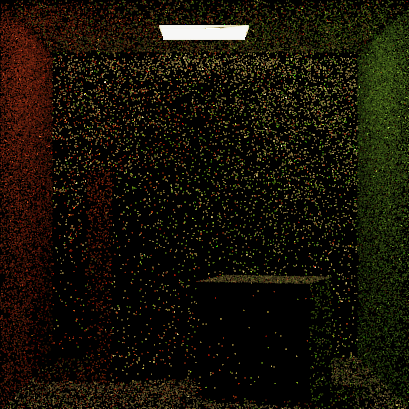
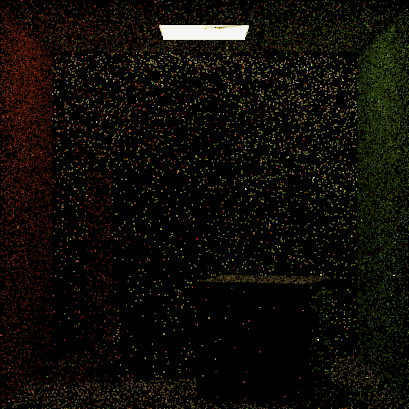
upload

diff --git a/RTBase/Materials.h b/RTBase/Materials.h
@@ -44,7 +44,6 @@ public:
 		float p = (cosTheta - cosTheta_t * ior) / (cosTheta + cosTheta_t * ior);
 		float v = (cosTheta * ior - cosTheta_t) / (cosTheta * ior + cosTheta_t);
 		return (SQ(p) + SQ(v)) / 2;
-		//return 1.0f;
 	}
 	static Colour fresnelConductor(float cosTheta, Colour ior, Colour k)
 	{
@@ -387,7 +386,6 @@ public:
 		std::cout << "ConductorBSDF" << std::endl;
 	}
 };
-#if 1
 class GlassBSDF : public BSDF
 {
 public:
@@ -523,143 +521,6 @@ public:
 		std::cout << "GlassBSDF" << std::endl;
 	}
 };
-#else
-class GlassBSDF : public BSDF
-{
-public:
-	Texture* albedo;
-	float intIOR;
-	float extIOR;
-	GlassBSDF() = default;
-	GlassBSDF(Texture* _albedo, float _intIOR, float _extIOR)
-	{
-		albedo = _albedo;
-		intIOR = _intIOR;
-		extIOR = _extIOR;
-	}
-	Vec3 sample(const ShadingData& shadingData, Sampler* sampler, Colour& reflectedColour, float& pdf)
-	{
-		// Replace this with Glass sampling code
-		/*Vec3 wi = SamplingDistributions::cosineSampleHemisphere(sampler->next(), sampler->next());
-		pdf = wi.z / M_PI;
-		reflectedColour = albedo->sample(shadingData.tu, shadingData.tv) / M_PI;
-		wi = shadingData.frame.toWorld(wi);
-		return wi;*/
-		//in Glass, we have certain direction of light.
-		Vec3 woLocal = shadingData.frame.toLocal(shadingData.wo);
-		if (woLocal.isZero()) { pdf = 0.0f; return Vec3(0.0f); }
-
-		// whether it is entering or exiting
-		float eta_i = woLocal.z > 0.0f ? extIOR : intIOR;
-		float eta_t = woLocal.z > 0.0f ? intIOR : extIOR;
-		float cosThetaI = fabsf(woLocal.z);
-
-		// Fresnel reflectance for dielectric
-		float F = ShadingHelper::fresnelDielectric(cosThetaI, eta_i, eta_t);
-
-		// sample decision
-		float u = sampler->next();
-
-		// reflection, samilar to mirror
-		if (u < F){
-			Vec3 wiLocal(-woLocal.x, -woLocal.y, woLocal.z); // perfect mirror
-			Vec3 wi = shadingData.frame.toWorld(wiLocal);
-			float cosThetaR = fabsf(woLocal.z);
-			if (cosThetaR < EPSILON) cosThetaR = EPSILON;
-			reflectedColour = albedo->sample(shadingData.tu, shadingData.tv) * (F / cosThetaR);
-			return wi;
-		}
-		// transmission
-		else{
-			Vec3 N(0.0f, 0.0f, 1.0f);
-			Vec3 I = -woLocal;
-			float eta = eta_i / eta_t;
-			float NdotI = Dot(N, I); //NdotI = -woLocal.z
-			float k = 1.0f - SQ(eta) * (1.0f - SQ(NdotI));
-			Vec3 T = I * eta  - N * (eta * NdotI + sqrtf(k));
-			Vec3 wiLocal = T; // already points into transmitted medium
-			Vec3 wi = shadingData.frame.toWorld(wiLocal);
-
-			float cosThetaT = fabsf(wiLocal.z);
-			if (cosThetaT < EPSILON) cosThetaT = EPSILON;
-
-			// scale factor from rendering equation for transmission delta term:
-			float etaScale = SQ(eta_t) / SQ(eta_i);
-			reflectedColour = albedo->sample(shadingData.tu, shadingData.tv) * (etaScale * (1.0f - F) / cosThetaT);
-			return wi;
-		}
-	}
-	Colour evaluate(const ShadingData& shadingData, const Vec3& wi)
-	{
-		// Replace this with Glass evaluation code
-		//return albedo->sample(shadingData.tu, shadingData.tv) / M_PI;
-		Vec3 woLocal = shadingData.frame.toLocal(shadingData.wo);
-		Vec3 wiLocal = shadingData.frame.toLocal(wi);
-
-		if (woLocal.isZero() || wiLocal.isZero()) return Colour(0.0f);
-
-		// reject below-surface directions (convention used elsewhere)
-		if (woLocal.z == 0.0f) return Colour(0.0f);
-
-		// prepare Fresnel and ior
-		float eta_i = woLocal.z > 0.0f ? extIOR : intIOR;
-		float eta_t = woLocal.z > 0.0f ? intIOR : extIOR;
-		float cosThetaI = fabsf(woLocal.z);
-		float F = ShadingHelper::fresnelDielectric(cosThetaI, eta_i, eta_t);
-
-		// expected reflection
-		Vec3 wiRef(-woLocal.x, -woLocal.y, woLocal.z);
-		if (fabsf(wiLocal.x - wiRef.x) < EPSILON &&
-			fabsf(wiLocal.y - wiRef.y) < EPSILON &&
-			fabsf(wiLocal.z - wiRef.z) < EPSILON){//first part of the function
-			float cosThetaR = fabsf(woLocal.z);
-			if (cosThetaR < EPSILON) cosThetaR = EPSILON;
-			return albedo->sample(shadingData.tu, shadingData.tv) * (F / cosThetaR);
-		}
-		// expected transmission: compute refracted direction and compare
-		else{//second part of the function
-			Vec3 N(0.0f, 0.0f, 1.0f);
-			Vec3 I = -woLocal;
-			float eta = eta_i / eta_t;
-			float NdotI = Dot(N, I);
-			float k = 1.0f - SQ(eta) * (1.0f - SQ(NdotI));
-			Vec3 T = I * eta - N * (eta * NdotI + sqrtf(k));
-			// compare T with wiLocal
-			if (fabsf(wiLocal.x - T.x) < EPSILON &&
-				fabsf(wiLocal.y - T.y) < EPSILON &&
-				fabsf(wiLocal.z - T.z) < EPSILON){
-				float cosThetaT = fabsf(T.z);
-				if (cosThetaT < EPSILON) cosThetaT = EPSILON;
-				float etaScale = SQ(eta_t) / SQ(eta_i);
-				return albedo->sample(shadingData.tu, shadingData.tv) * (etaScale * (1.0f - F) / cosThetaT);
-			}
-		}
-		return Colour(0.0f);
-	}
-	float PDF(const ShadingData& shadingData, const Vec3& wi)
-	{
-		// Replace this with GlassPDF
-		/*Vec3 wiLocal = shadingData.frame.toLocal(wi);
-		return SamplingDistributions::cosineHemispherePDF(wiLocal);*/
-		return 0.0f;
-	}
-	bool isPureSpecular()
-	{
-		return true;
-	}
-	bool isTwoSided()
-	{
-		return false;
-	}
-	float mask(const ShadingData& shadingData)
-	{
-		return albedo->sampleAlpha(shadingData.tu, shadingData.tv);
-	}
-	void printBSDFName() {
-		std::cout << "GlassBSDF" << std::endl;
-	}
-};
-#endif 
 class DielectricBSDF : public BSDF
 {
 public:

diff --git a/RTBase/Renderer.h b/RTBase/Renderer.h
@@ -12,10 +12,10 @@
 
 //switches
 #define THREADPOOL 1 //threadpool or multithreads
-#define DENOISE 0 // enable denoising or not
+#define DENOISE 1 // enable denoising or not
 #define MIS 1	//enable MIS or not
-#define RADIOSITY 1	//enable radiosity or not
-#define LIGHTTRACING 1 //light tracing or path tracing
+#define RADIOSITY 0	//enable radiosity or not
+#define LIGHTTRACING 0 //light tracing or path tracing
 class RayTracer
 {
 private:
@@ -29,12 +29,8 @@ public:
 	oidn::DeviceRef device;
 	oidn::FilterRef filter;
 	oidn::BufferRef colorBuf;
-	oidn::BufferRef albedoBuf;
-	oidn::BufferRef normalBuf;
 	oidn::BufferRef outputBuf;
 	float* colourPtr;
-	float* albedoPtr;
-	float* normalPtr;
 	float* outputPtr;
 	std::vector<VPL> vplList;
 #if THREADPOOL
@@ -81,8 +77,6 @@ public:
 		device.commit();
 		//buffer create
 		colorBuf = device.newBuffer((unsigned int)film->width * (unsigned int)film->height * 3 * sizeof(float));
-		albedoBuf = device.newBuffer((unsigned int)film->width * (unsigned int)film->height * 3 * sizeof(float));
-		normalBuf = device.newBuffer((unsigned int)film->width * (unsigned int)film->height * 3 * sizeof(float));
 		outputBuf = device.newBuffer((unsigned int)film->width * (unsigned int)film->height * 3 * sizeof(float));
 		//set filter
 		filter = device.newFilter("RT");
@@ -95,8 +89,6 @@ public:
 		filter.commit();
 
 		colourPtr = (float*)colorBuf.getData();
-		albedoPtr = (float*)albedoBuf.getData();
-		normalPtr = (float*)normalBuf.getData();
 		outputPtr = (float*)outputBuf.getData();
 	}
 	void clear()
@@ -444,7 +436,7 @@ public:
 		//splat onto film
 		film->splat(posX, posY, contrib);
 	}
-	void lightTrace(Sampler* sampler) {
+	void lightTrace(Sampler* sampler, const float& invLightPathCount) {
 		//sample a light source
 		float pmf = 1.0f;//pmf for this light
 		Light* light = scene->sampleLight(sampler, pmf);
@@ -517,8 +509,7 @@ public:
 		Sampler* sampler = &samplers[0];
 		for (int i = 0; i < lightPathCount; ++i) {
 			lightTrace(sampler, invLightPathCount);
-			if ((lightPathCount - i) % 1000 == 0)
-				std::cout << "remain:" << lightPathCount - i << std::endl;
+			//if ((lightPathCount - i) % 1000 == 0)	std::cout << "remain:" << lightPathCount - i << std::endl;
 		}
 #if RADIOSITY
 #if THREADPOOL //THREADPOOL
@@ -608,7 +599,11 @@ public:
 				if (film->SPP > 0) {
 					int p = (x + y * film->width);
 					Colour col = film->film[p] / float(film->SPP);
+#if RADIOSITY
 					film->tonemap(x, y, col, 2.0f);//2.0f
+#else
+					film->tonemap(x, y, col, 20.0f);//2.0f
+#endif
 					unsigned char rc = (unsigned char)(std::min(1.0f, col.r) * 255.0f);
 					unsigned char gc = (unsigned char)(std::min(1.0f, col.g) * 255.0f);
 					unsigned char bc = (unsigned char)(std::min(1.0f, col.b) * 255.0f);

diff --git a/RTBase/Lights.h b/RTBase/Lights.h
@@ -193,11 +193,6 @@ public:
 	}
 	Vec3 sample(const ShadingData& shadingData, Sampler* sampler, Colour& reflectedColour, float& pdf)
 	{
-		// Assignment: Update this code to importance sampling lighting based on luminance of each pixel
-		/*Vec3 wi = SamplingDistributions::uniformSampleSphere(sampler->next(), sampler->next());
-		pdf = SamplingDistributions::uniformSpherePDF(wi);
-		reflectedColour = evaluate(wi);
-		return wi;*/
 		//tabulated
 		//get row
 		float r1 = sampler->next();
@@ -220,8 +215,6 @@ public:
 		float cosPhi = cosf(phi);
 		//get direction vector
 		Vec3 wi(cosPhi * sinTheta, cosTheta, sinTheta * sinPhi);
-		//const static float SQPI = SQ(M_PI);//store result
-		//pdf = puv / (2 * SQPI * sinTheta);//this will generate a very low pdf!
 		//get puv's term
 		float dPhi = 2.0f * M_PI / float(env->width);
 		float dTheta = M_PI / float(env->height);
@@ -272,10 +265,6 @@ public:
 		float cosThetaHigh = cosf(theta0 + 0.5 * dTheta);
 		float cosThetaLow = cosf(theta0 - 0.5 * dTheta);
 		return puv / (dPhi * (cosThetaLow - cosThetaHigh));
-		/*
-		float lum = env->texels[pixely * env->width + pixelx].Lum();
-		float puv = (lum * sin(theta)) / totalWeight;
-		return puv / (2.0f * SQPI * sin(theta));*/
 	}
 	bool isArea()
 	{

diff --git a/RTBase/Main.cpp b/RTBase/Main.cpp
@@ -13,9 +13,9 @@ int main(int argc, char *argv[])
 	//runTests();
 	
 	// Initialize default parameters
-	std::string sceneName = "cornell-box";
+	//std::string sceneName = "cornell-box";
 	//std::string sceneName = "bathroom";
-	//std::string sceneName = "MaterialsScene";
+	std::string sceneName = "MaterialsScene";
 	//std::string sceneName = "car2";
 	//std::string sceneName = "kitchen";
 	std::string filename = "GI.hdr";

diff --git a/RTBase/Scene.h b/RTBase/Scene.h
@@ -6,7 +6,7 @@
 #include "Imaging.h"
 #include "Materials.h"
 #include "Lights.h"
-
+#define BVH 1 // Set to 1 to enable BVH, 0 for naive traversal
 class Camera
 {
 public:
@@ -69,7 +69,7 @@ public:
 		return true;
 	}
 };
-#define BVH 1 // Set to 1 to enable BVH, 0 for naive traversal
+
 class Scene
 {
 public:
